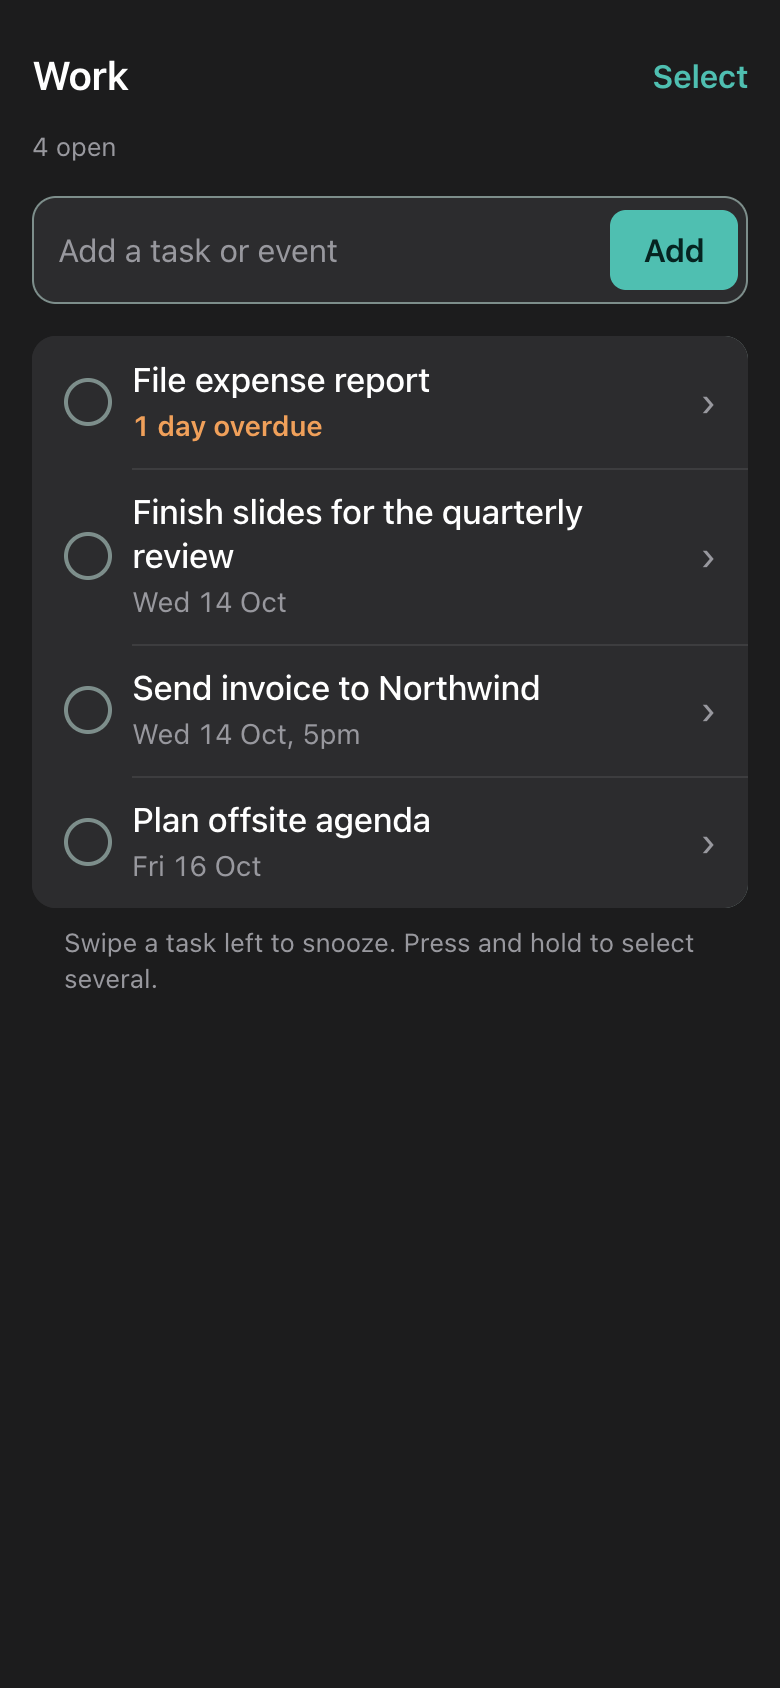
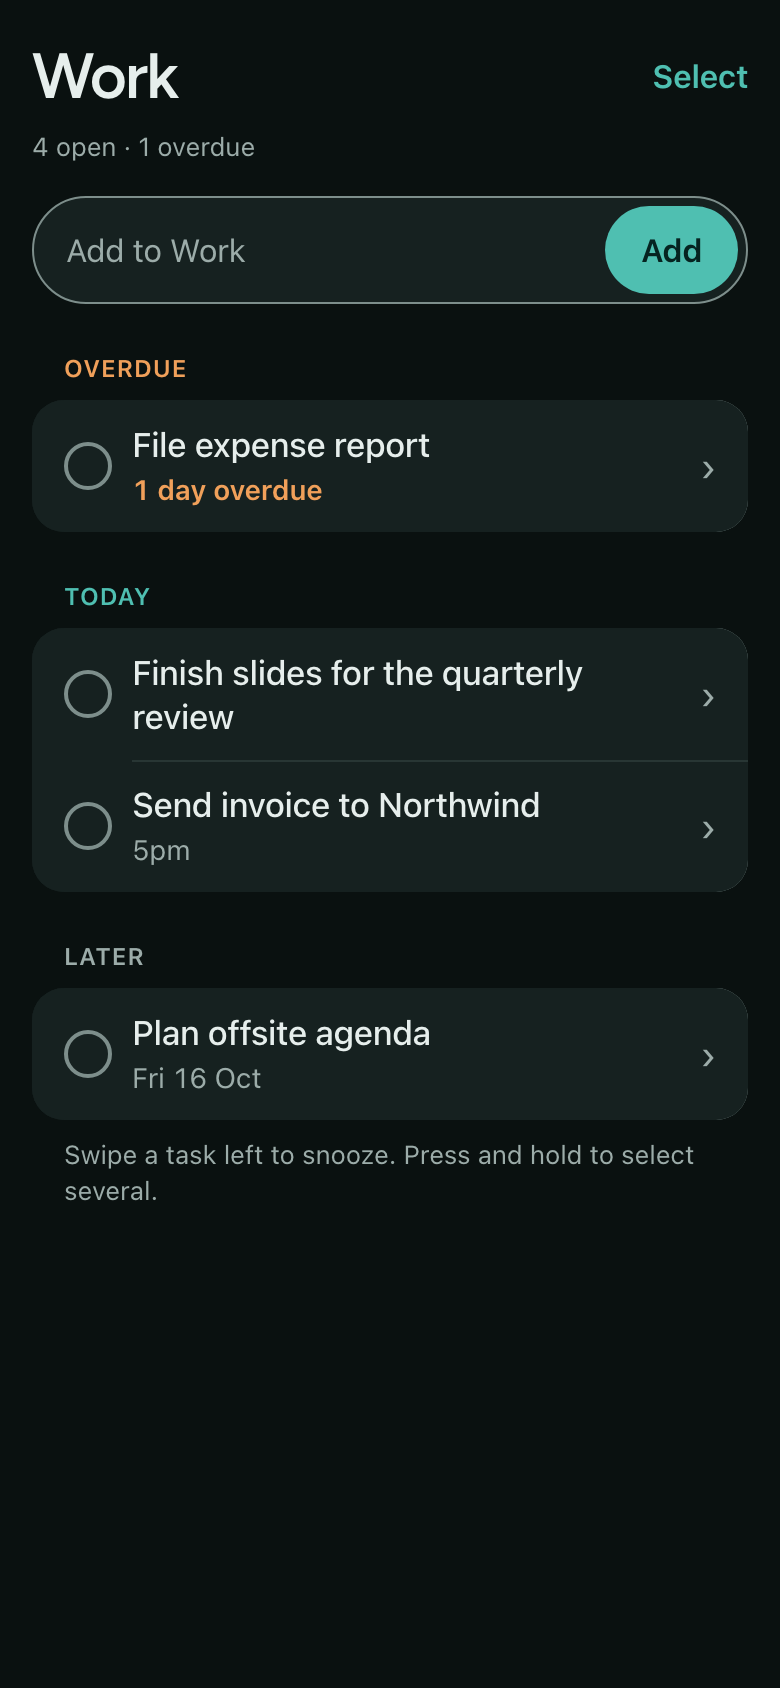
docs: retake the Mini App screenshots for 2.2.0
The README and the landing page's Mini App section showed the 2.1.0 design.
Both now use new captures of Home, Overdue, the Work list in dark mode and the
snooze sheet (synthetic data, headless Chromium with a stubbed Telegram), with
alt text and the landing caption updated to match. The 2.1.0 captures are kept
in docs/screenshots/archive/.

Claude-Session: https://claude.ai/code/session_01QhunrapjXWHgYn3HnNg3bC

diff --git a/landing/src/content.ts b/landing/src/content.ts
@@ -232,21 +232,21 @@ export const MINI_APP_SCREENS = [
   {
     id: "home",
     label: "Home",
-    alt: "Mini App home: Wednesday 14 Oct, Gym next at 7pm, quick add, Today 6, Overdue 3, This week 4, No deadline 3, and lists",
+    alt: "Mini App home: the logo beside Wednesday, Gym next at 7pm in 2 hr 24 min, quick add, Today 6, Overdue 3 (oldest 62 days), This week 4, and lists with overdue counts",
   },
   {
     id: "overdue",
     label: "Overdue",
-    alt: "Overdue screen: Pay rent twice overdue and File expense report one day overdue, with check circles",
+    alt: "Overdue screen: Pay rent missed twice, folded under its monthly series, and File expense report one day overdue",
   },
   {
     id: "list",
     label: "List",
-    alt: "The Work list in dark mode: four open tasks with their deadlines",
+    alt: "The Work list in dark mode: four open tasks grouped into Overdue, Today and Later",
   },
   {
     id: "snooze",
     label: "Snooze",
-    alt: "Snooze sheet for Send invoice to Northwind: In 1 hour, Tomorrow at 8am, or a date and time; the deadline stays",
+    alt: "Snooze sheet for Send invoice to Northwind: In 1 hour, This evening, Tomorrow or Monday, each with its time, or a day and time; the deadline stays",
   },
 ] as const;

diff --git a/landing/src/sections/MiniApp.tsx b/landing/src/sections/MiniApp.tsx
@@ -18,7 +18,7 @@ const SOURCES: Record<(typeof MINI_APP_SCREENS)[number]["id"], string> = {
 const POINTS = [
   {
     title: "What's next, at a glance.",
-    body: "The next event or deadline, then Today, Overdue, This week and No deadline with their counts.",
+    body: "The next event or deadline with a countdown, then Today, Overdue and This week, and your lists.",
   },
   {
     title: "One tap to complete.",

diff --git a/README.md b/README.md
@@ -43,10 +43,10 @@ The Telegram Mini App, opened from the chat (synthetic data).
     <td align="center"><b>Snooze</b></td>
   </tr>
   <tr>
-    <td><img src="docs/screenshots/mini-app-home.png" alt="Home: next event, quick add, Today, Overdue, This week and No deadline counts, and lists" width="200"></td>
-    <td><img src="docs/screenshots/mini-app-overdue.png" alt="Overdue tasks grouped, each showing how many days overdue" width="200"></td>
-    <td><img src="docs/screenshots/mini-app-list-dark.png" alt="The Work list in Telegram's dark theme" width="200"></td>
-    <td><img src="docs/screenshots/mini-app-snooze.png" alt="The snooze sheet: in 1 hour, tomorrow at 8am, or a chosen date and time" width="200"></td>
+    <td><img src="docs/screenshots/mini-app-home.png" alt="Home: the logo beside Wednesday, Gym next at 7pm with a countdown, quick add, Today, Overdue and This week tiles, and lists with overdue counts" width="200"></td>
+    <td><img src="docs/screenshots/mini-app-overdue.png" alt="Overdue: two missed rent payments folded under their monthly series, and a one-off task one day overdue" width="200"></td>
+    <td><img src="docs/screenshots/mini-app-list-dark.png" alt="The Work list in dark mode, grouped into Overdue, Today and Later" width="200"></td>
+    <td><img src="docs/screenshots/mini-app-snooze.png" alt="The snooze sheet: presets showing the time they mean, then a day and a time to pick; the deadline stays" width="200"></td>
   </tr>
 </table>
 

diff --git a/CHANGELOG.md b/CHANGELOG.md
@@ -16,6 +16,7 @@ A polished Mini App, in the landing page's finish.
 - **Mini App polish** to match the landing page ([ADR 0007](docs/adr/0007-mini-app-display-type-and-depth.md)): the mark beside Home's heading; a raised Next up card with a live countdown; Today, Overdue and This week tiles that show progress, the oldest overdue age and deadline days; overdue counts on lists; Figtree titles and figures and soft depth on floating layers, served from the app's own origin
 - **Task screens**: Overdue folds recurring tasks under their series; lists group by Overdue, Today, Later and No deadline; task detail leads with the deadline and shows history as a timeline
 - **Snooze** offers one-tap presets that show the time they mean, and a day and time picker in your own time zone
+- README and landing page screenshots show the new design
 
 ### Added
 

diff --git a/docs/README.md b/docs/README.md
@@ -21,7 +21,7 @@ became of it.
 | [Identity](identity/oh-my-days.md) | Name, voice, copy rules, logo, the repository banner, and the landing page's marketing exception | Current |
 | [Logo files](identity/logo/) | Mark, lockups, avatar, and banner (SVG and PNG); superseded concepts in `archive/` | Current |
 | [Experience brief](design/experience.md) | Telegram flows, connection pages, and the Mini App's layout and behaviour | Current |
-| [Screenshots](screenshots/) | Mini App captures with synthetic data, used in the README | Current |
+| [Screenshots](screenshots/) | Mini App captures with synthetic data, used in the README and on the landing page; earlier versions in `archive/` | Current |
 
 ## Engineering
 

diff --git a/docs/plans/backend.md b/docs/plans/backend.md
@@ -597,4 +597,5 @@ week days, list overdue counts and an `allClear` flag, and task screens gained
 the user's local time and series labels (`tests/miniapp/read-api.test.ts`).
 The client screens were checked visually in headless Chromium with a stubbed
 Telegram object and synthetic data, not yet inside Telegram. The README and
-landing page screenshots still show the previous design.
+landing page screenshots were retaken from the same harness; the 2.1.0 ones are
+in `docs/screenshots/archive/`.
